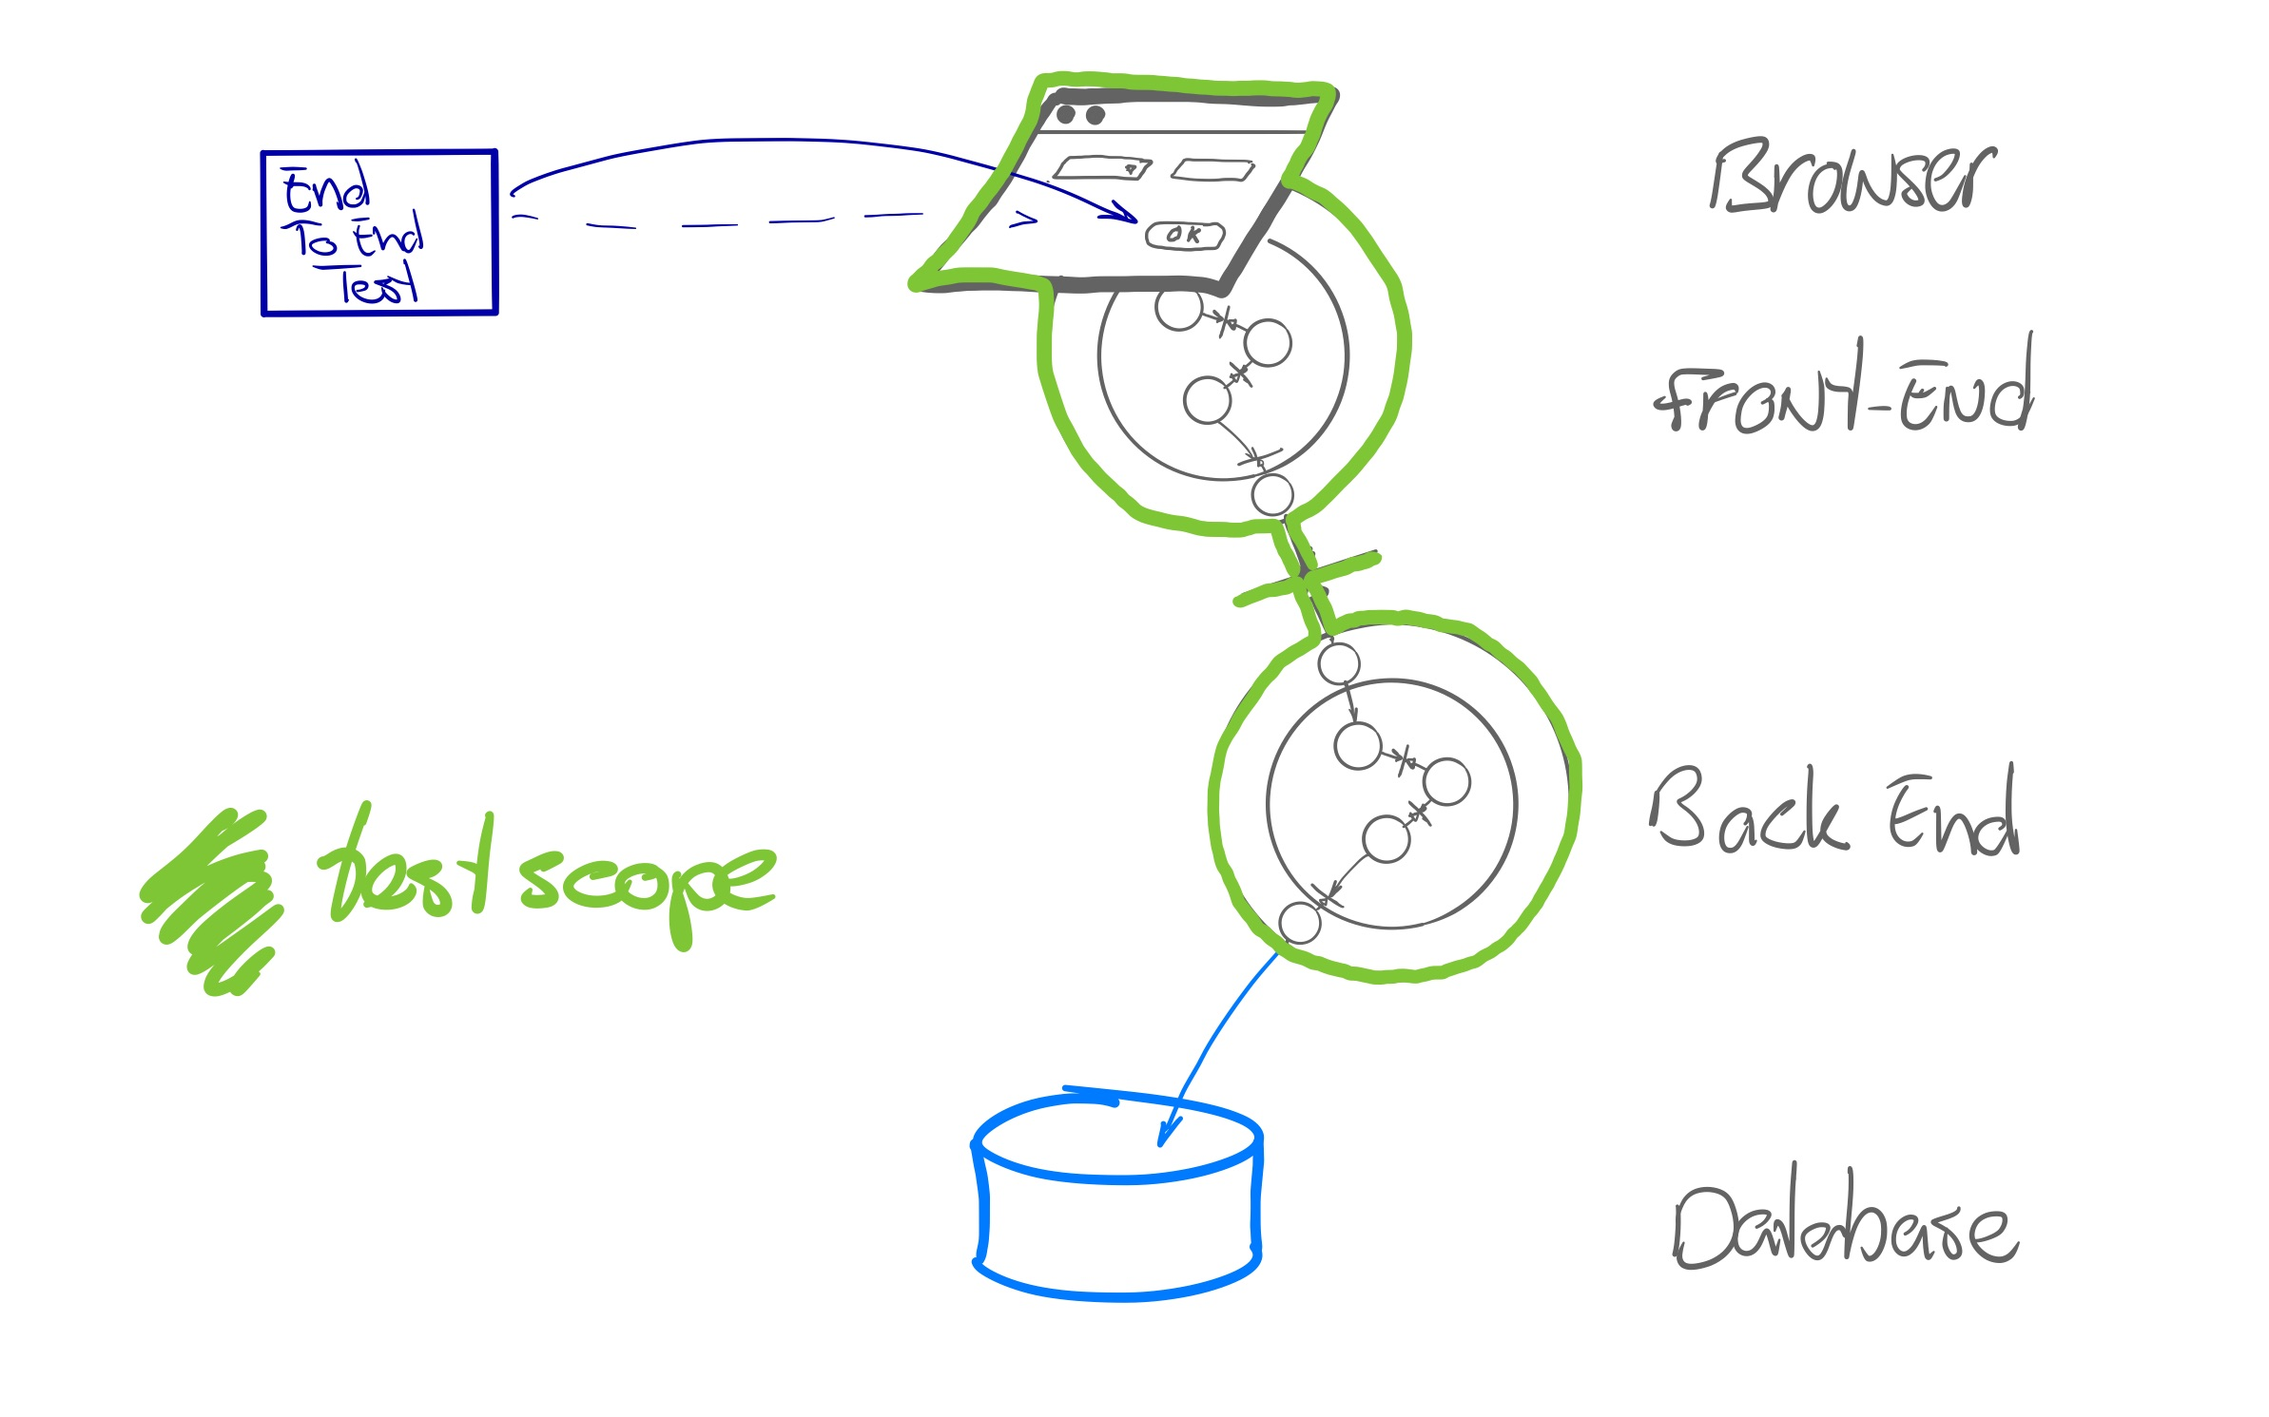
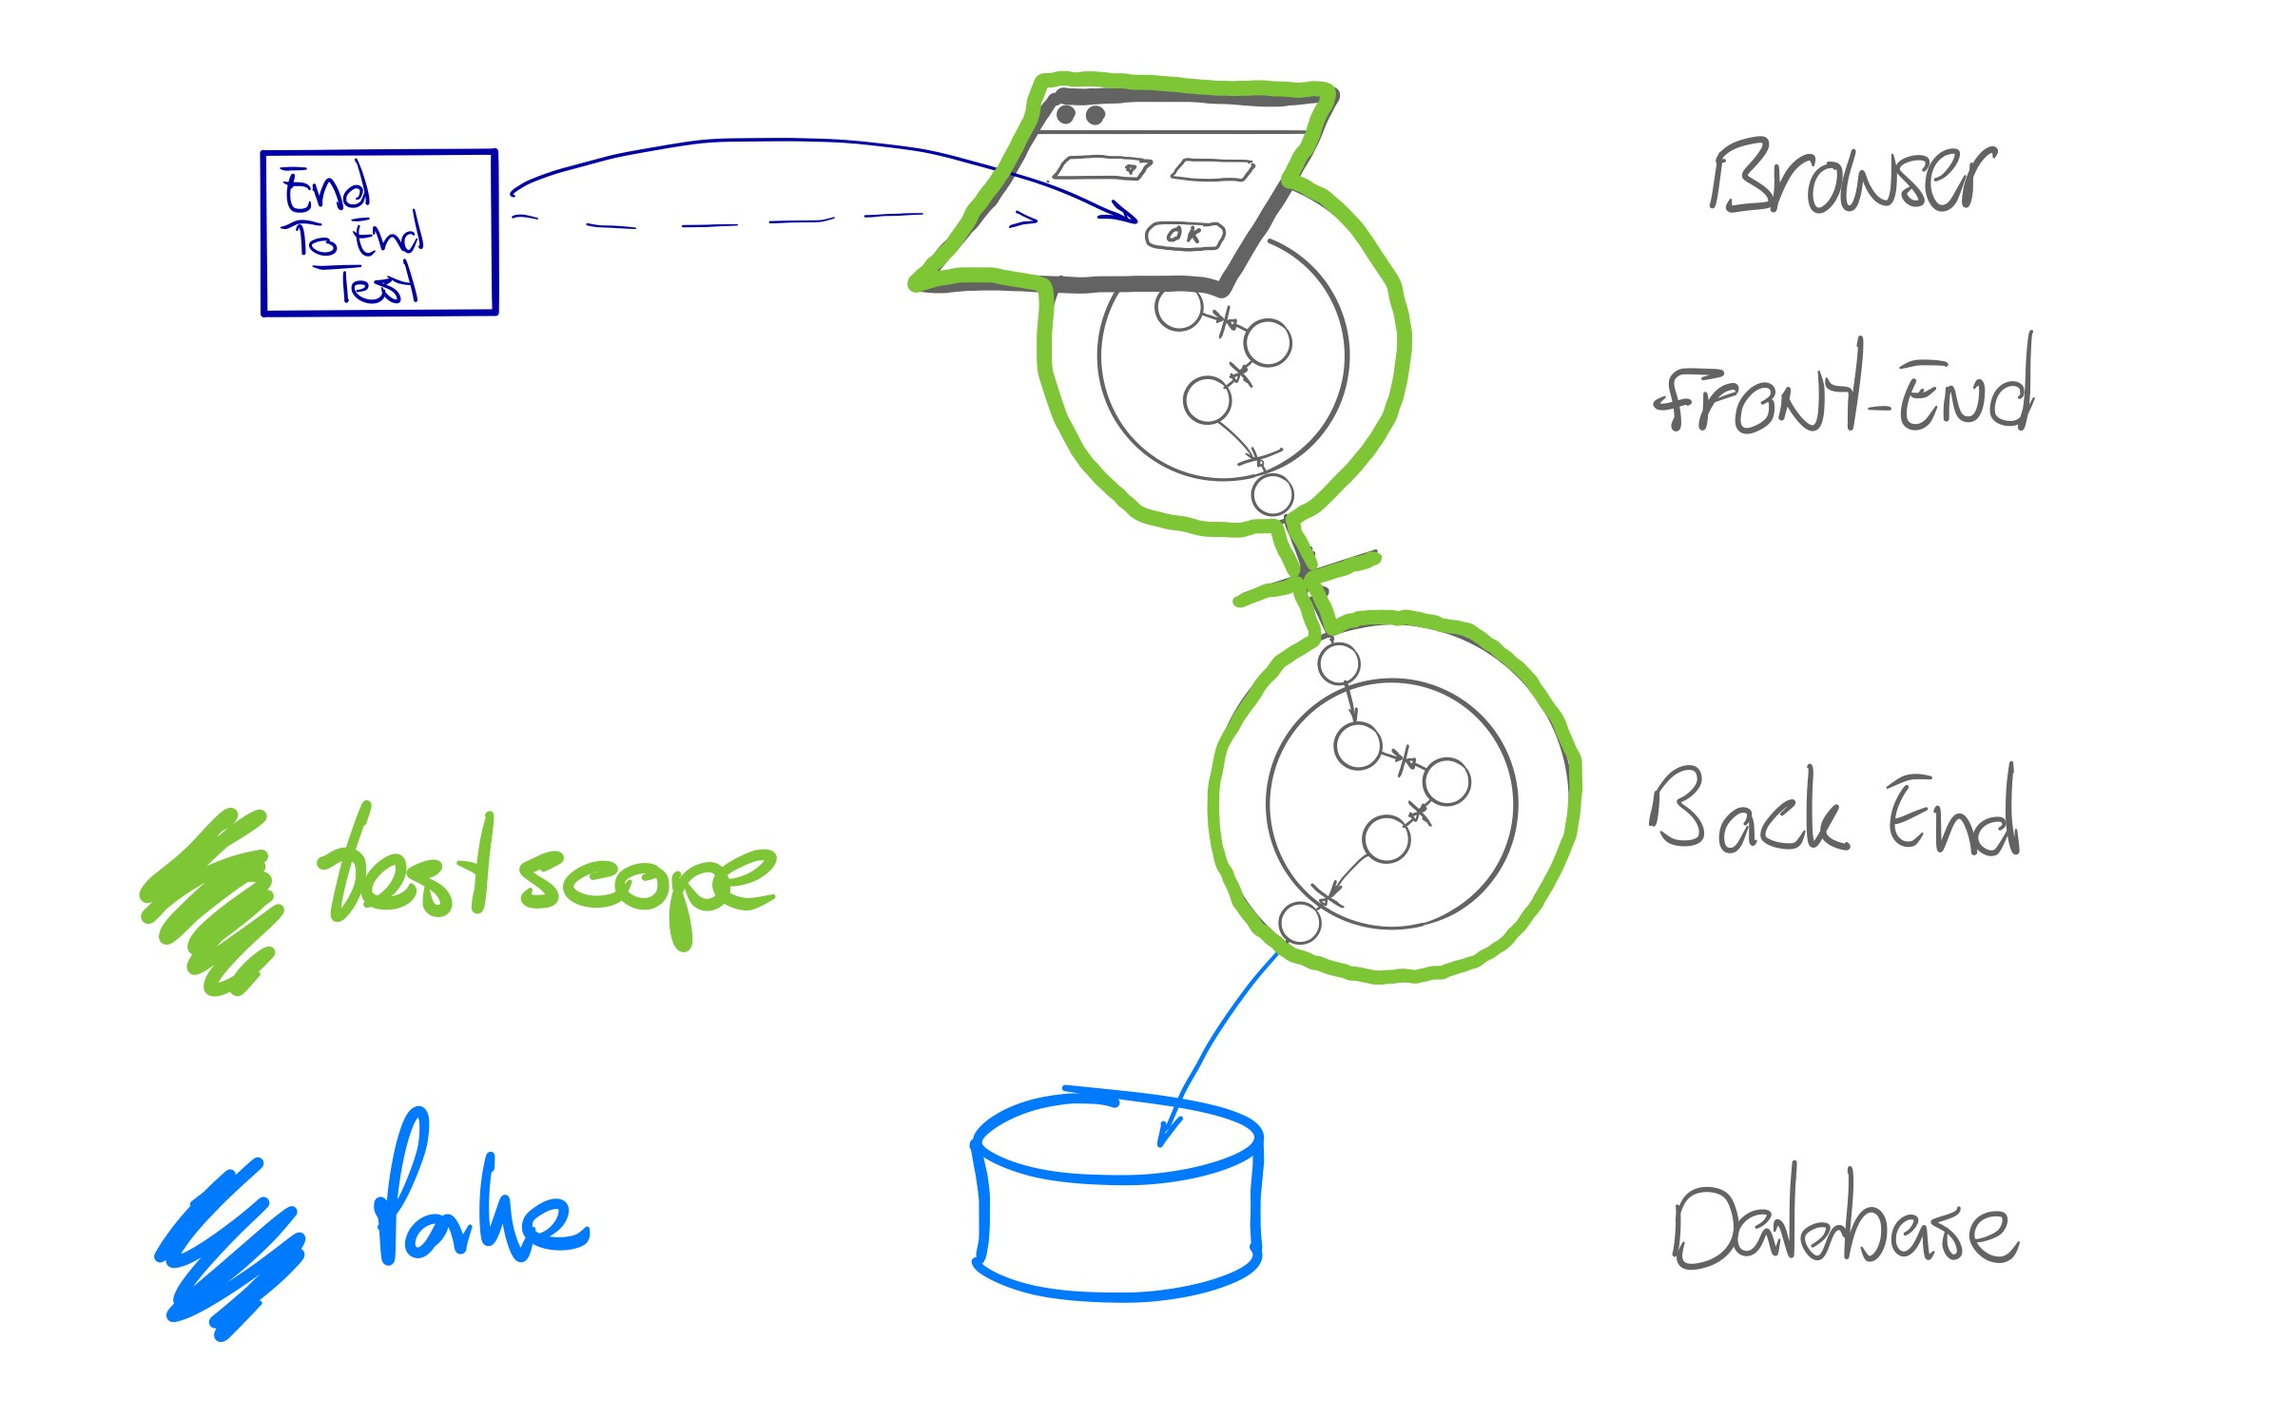
almost done

Changed region(s): [[0.062, 0.7713, 0.2791, 0.9564]]

diff --git a/_drafts/2020-09-17-test-architecture.md b/_drafts/2020-09-17-test-architecture.md
@@ -1,0 +1,189 @@
+---
+layout: post
+title: Automated Test Architecture
+tags:
+  - architecture
+  - ports and adapters
+  - continuous delivery
+  - test driven development
+author: Marc Evers, Rob Westgeest
+image: /attachments/blogposts/2020/hextesting-02.jpg
+---
+
+In this post, we will share another benefit of looking through the Hexagonal Architecture lens: it helps in making decisions about the automated test architecture of your application landscape. It can guide you in questions like:
+
+- What kinds of tests cover which concerns and which risks?
+- What mix of automated tests is appropriate for my context?
+- What mix of tests will provide confidence that my changes are ready for delivery?
+- How can I move a test within my test architecture to get faster, more specific feedback?
+
+We have introduced our view on Hexagonal Architecture in previous posts: [hexagonal architecture](/2020/08/20/hexagonal-architecture) and [How to keep Front End complexity in check with Hexagonal Architecture](/2020/09/09/how-to-keep-complexity-in-check-with-hexagonal-architecture.html). 
+
+## An example application landscape
+
+Say we have an application that consists of a backend component using a database, and a frontend component running in a web browser. The backend exposes an API, which is represented by the perpendicular line between frontend and backend in the picture below.
+
+![typical architecture: front end, back end, database](/attachments/blogposts/2020/hextesting-01.jpg)
+{: class="post-image post-image-50" }
+
+We see both the frontend and the backend as hexagons, each with its own domain, its own ports and its own adapters. The business logic and view logic is in the center, dependencies go outside-in.
+
+## Automated tests
+
+Looking at our application landscape in this way, we can define different types of tests having different scopes:
+
+- unit tests
+- adapter integration tests
+- contract tests
+- end to end tests
+
+### Unit tests
+
+The term _unit test_ is often used for any automated test written by a developer, but we prefer to stay close to its actual meaning: an automated test for a *unit*, i.e. one object or function, or a small cluster of objects.
+
+We write **Unit Tests** for the domain logic inside the hexagons. Because the domain does not depend on outside stuff, we can test it in isolation and write clear tests that speak the domain language.
+
+Unit tests for a component have a limited scope and run fast, in milliseconds. A whole suite should run in mere seconds.
+
+![Unit tests](/attachments/blogposts/2020/hextesting-02.jpg)
+{: class="post-image" }
+
+### Adapter integration tests
+
+By decoupling adapters from the domain, we can write focused automated tests for adapter concerns. In the _Growing Object Oriented Software Guided by Tests_ book, these tests are called Integration Tests. We prefer **Adapter Integration Tests** or **Integration Point Tests**, to express the intent a bit better. 
+
+Adapter Integration Tests verify whether an adapter integrates properly with a database, an external API, etc. The test exercises the adapter mainly through its domain interface.
+
+![Adapter integration tests](/attachments/blogposts/2020/hextesting-03.jpg)
+{: class="post-image" }
+
+In the backend component of the [Agile Fluency](https://www.agilefluency.org/)® Diagnostic application we're working on, we have a Facilitator Repository that stores data about facilitators in an SQLite database. It provides a domain oriented interface with functions like `save` and `all`, to save a facilitator and to retrieve all facilitators. It looks like this in Python:
+
+```python
+class DBFacilitatorRepository:
+    def all(self):
+        return map(as_facilitator, FacilitatorRecord.query.all())
+
+    def save(self, facilitator):
+        record = FacilitatorRecord(...)
+        db.session.add(record)
+        db.session.commit()
+
+def as_facilitator(record):
+    return Facilitator(...)
+  ...
+```
+
+This adapter integrates with the database library and takes care of mapping domain objects to and from database records.
+
+The adapter integration test sets up an in-memory SQLite database, creates the database schema, runs migrations, and then runs the test via the domain interface. The scope of the test include database integration and mapping to and from domain objects, which is typical for adapter integration tests.
+
+```python
+class TestDbFacilitatorRepository:
+    class TestConfig(object):
+        SQLALCHEMY_DATABASE_URI = 'sqlite:///:memory:'
+
+    @pytest.fixture(autouse=True)
+    def setupDb(self):            
+        the_app = create_app(self.TestConfig)
+        with the_app.app_context():
+            self.repo = DBFacilitatorRepository()
+            db.create_all()
+            yield
+
+    def test_creating_a_facilitator_makes_it_available_in_the_repo(self):
+        facilitator = aValidFacilitator()
+        self.repo.save(facilitator=facilitator)
+        assert list(self.repo.all()) == [ facilitator ]
+    ...
+```
+
+> We can choose how much of the integration we want to cover in the test: our `TestDbFacilitatorRepository` test could also use a real database running on our local machine and in the build environment, to make the difference with the production situation even smaller.
+
+For sending emails, we have written an adapter integration test that checks our `SMTPBasedMessageEngine` with a fake SMTP server that we start and stop from the test. Alternatively, we could test with a real SMTP server and poll a test mailbox for messages. Although closer to the actual production situation, this approach is slower and more brittle - again a trade-off.
+
+The automated tests we write for our Vue.js based UI components are also adapter integration tests. We see UI components as adapters integrating with UI framework. Tests for UI components verify if we integrate correctly with the UI framework. Seeing UI component code as adapters helps us to move logic out of UI components: validation logic for instance is not about UI framework integration, so we rather move it to a separate domain object having its own fast unit tests.
+
+Testing your front end application with different browsers is another example of adapter integration tests. The intent of these tests is to verify if the UI behaves correctly in different browsers. We do not want to use full-system end-to-end system tests for this, we just want to have the front end component running e.g. against stubbed backend APIs.
+
+### Contract tests
+
+We can define tests around the contracts between the producers and consumers of an API. Recently, contract tests have been given a boost by [Pact](https://docs.pact.io). Pact offers a specific way of contract testing: [Consumer based contract testing](https://martinfowler.com/articles/consumerDrivenContracts.html).
+
+For consumer based contract testing, all consumers of an API publish examples of how they use that API. The contract testchecks the examples against the producer implementing the API. In this way, you get quick and specific feedback if all known consumers can still work with the changes in the API.
+
+![contract testing](/attachments/blogposts/2020/hextesting-contracts.jpg)
+
+In practice, we often see teams using end-to-end tests to catch contract related problems. Contract tests however provide better feedback faster.
+
+Versioned schemas for API contracts are an alternative solution. Schemas make evolution of APIs a bit of a hassle (sometimes that's a good thing, especially with public APIs). Contract testing is more flexible and supports smoother evolution, as for every API change, it checks all consumers.
+
+### End to end tests
+
+**End to end tests** exercise a larger part of the application landscape, end to end. In practice, teams implement end to end tests as tests covering almost the whole application landscape through the UI running in a browser. System-wide, UI based end to end tests have a number of problems:
+
+- a large scope and many components involved means many moving parts, and _slow, fragile tests_
+- _testing through the web browser is notoriously fragile and slow_, although recent developments like [Cypress](https://www.cypress.io) make it less burdensome
+- the many moving parts all behave asynchronously; _handling asynchronous behaviour is a challenge_ and many teams are struggling with _flaky tests_ as a result
+- _the feedback from the tests is not helpful_; a test fails for instance complaining about a button that does not appear. What is the actual cause? Where can we find the cause? In the front end? Is it a mistake in the API? Or a mistake in a business rule buried deep in the backend?
+
+![end-to-end tests, whole system via UI](/attachments/blogposts/2020/hextesting-05.jpg)
+{: class="post-image" }
+
+There's much to discuss about end to end tests. See for instance [Integration Tests Are A Scam](https://www.infoq.com/news/2009/04/jbrains-integration-test-scam/) by J.B. Rainsberger. They come at a huge price. Relying on them for your confidence that your code works correctly is not very effective for the reasons mentioned above. 
+
+We prefer to focus on fast, valuable feedback and rely on unit tests and adapter integration tests rather than end to end tests. Where we do feel the need for an end to end test, we like to play with the _end-to-end-ness_ of these tests. There is always a limit to the end-to-end-ness. When your system integrates with a third party system without a test environment, end-to-end-ness stops there. If it is simply too slow or too brittle to run automated tests against an external system, you may choose to reduce the end-to-end-ness. Striking a balance between risks and swiftness of tests is key. 
+
+For example, we can create an end-to-end test that uses the API of a component and exercises the component with its database and possibly some other (real) components. Testing though an API is simpler and less fragile than testing through a UI.
+
+![end-to-end tests, via API](/attachments/blogposts/2020/hextesting-06.jpg)
+{: class="post-image" }
+
+We can test end-to-end with a fake database, instead of a real database. This speeds up the test and avoids state that needs to be cleaned up. 
+
+![end-to-end tests, faking the database](/attachments/blogposts/2020/hextesting-08.jpg)
+{: class="post-image" }
+
+Fake databases can still be slow. If we cover database integration with Adapter Integration Tests, we can opt for wiring the component with a fake repository implementation.
+
+![end-to-end tests, via UI with faked database](/attachments/blogposts/2020/hextesting-10.jpg)
+{: class="post-image" }
+
+We can test the backend component end to end via its API, with fake repositories. This option provides quite an effective balance between speed and end to end concerns. In one specific project we used this, as the emerging complexity of one component's behaviour asked for more than just unit tests. Wiring the component like the picture below allowed us to run interesting scenarios at the speed of unit tests. The feedback from failures in these tests was suboptimal however, so for each failure, we discussed what unit tests were lacking. 
+
+![end-to-end tests, via API with faked database](/attachments/blogposts/2020/hextesting-11.jpg)
+{: class="post-image" }
+
+There are many ways of creating end to end tests, with different trade-offs. A few years ago, Nat Pryce for example did a thought provoking presentation about [end to end functional tests that can run in milliseconds](https://www.youtube.com/watch?v=Fk4rCn4YLLU).
+
+## Conclusion
+
+Looking at your application landscape and your services through the Hexagonal lens provides you with useful options on how to design and structure different automated tests. It moves away from ideological debates and focuses on getting useful, fast feedback with reasonable investment.
+
+**There is no single right way or best practice for your test architecture**, but we do have preferences:
+
+- Working test driven: we test-drive our domain, our adapters and our user interface code.
+- We love continuous feedback from many small, focused, fast unit tests.
+- We prefer unit tests and adapter integration tests to end to end tests. 
+- Investing in adapter integration tests provides a high level of confidence in adapter code and reduces the need for end-to-end tests.
+- Keep broadly scoped end to end tests to a minimum.
+- We apply the same thinking and similar considerations - hexagonal view, unit tests, adapter integration test, end to end tests - for front end code.
+- When we find an issue in an end to end test, we will analyse if the concern can be covered by a unit test (is it a domain concern?), by an adapter integration test (is it about integration or mapping?), or by a contract test (is it about components talking to each other?).
+
+> We let us guide by the feedback loops in our development process. We always look for ways to get **better feedback faster**.
+
+## References
+
+- [Growing Object Oriented Software guided by Tests](http://www.growing-object-oriented-software.com/) book by Steve Freeman & Nat Pryce
+- The [original article on Hexagonal Architecture](https://alistair.cockburn.us/hexagonal-architecture/) by Alistair Cockburn
+- Alistair Cockburn presenting the history and the considerations behind Hexagonal Architecture: [part 1](https://www.youtube.com/watch?v=th4AgBcrEHA&t=4s), [part 2](https://www.youtube.com/watch?v=iALcE8BPs94), [part 3](https://www.youtube.com/watch?v=DAe0Bmcyt-4)
+- [Integration Tests Are A Scam](https://www.infoq.com/news/2009/04/jbrains-integration-test-scam/) by J.B. Rainsberger
+- [End to end functional tests that can run in milliseconds](https://www.youtube.com/watch?v=Fk4rCn4YLLU) by Nat Pryce
+
+<aside>
+  <h3>Rightsizing your automated tests</h3>
+  <p>Getting a good mix of automated tests and making appropriate trade-offs can be a challenge. We can support you, with workshops, advice or architecture and code reviews.</p>
+  <p><div>
+    <a href="/consulting">Learn more about our consultancy services</a>
+  </div></p>
+</aside>

diff --git a/_drafts/hexagonal-frontend-example.md b/_drafts/hexagonal-frontend-example.md
@@ -9,7 +9,11 @@ author: Marc Evers, Rob Westgeest
 image: /attachments/blogposts/2020/PortsAndAdapters-8.png
 ---
 
-In a [previous post](/2020/09/09/how-to-keep-complexity-in-check-with-hexagonal-architecture.html), we elaborated on how we apply [Hexagonal Architecture](/2020/08/20/hexagonal-architecture.html) in front end applications.
+In a [previous post](/2020/09/09/how-to-keep-complexity-in-check-with-hexagonal-architecture.html), we elaborated on how we apply [Hexagonal Architecture](/2020/08/20/hexagonal-architecture.html) in front end applications. 
+
+We have also written about how hexagonal architecture informs test architecture. We also apply this thinking for a front end component: as we distinguish ports, adapters and domain logic, we will have unit tests, adapter integration tests, and possibly some component end-to-end tests.
+
+
 
 Let's look at an example, taken from the Agile Fluency Diagnostic application we are developing.
 
